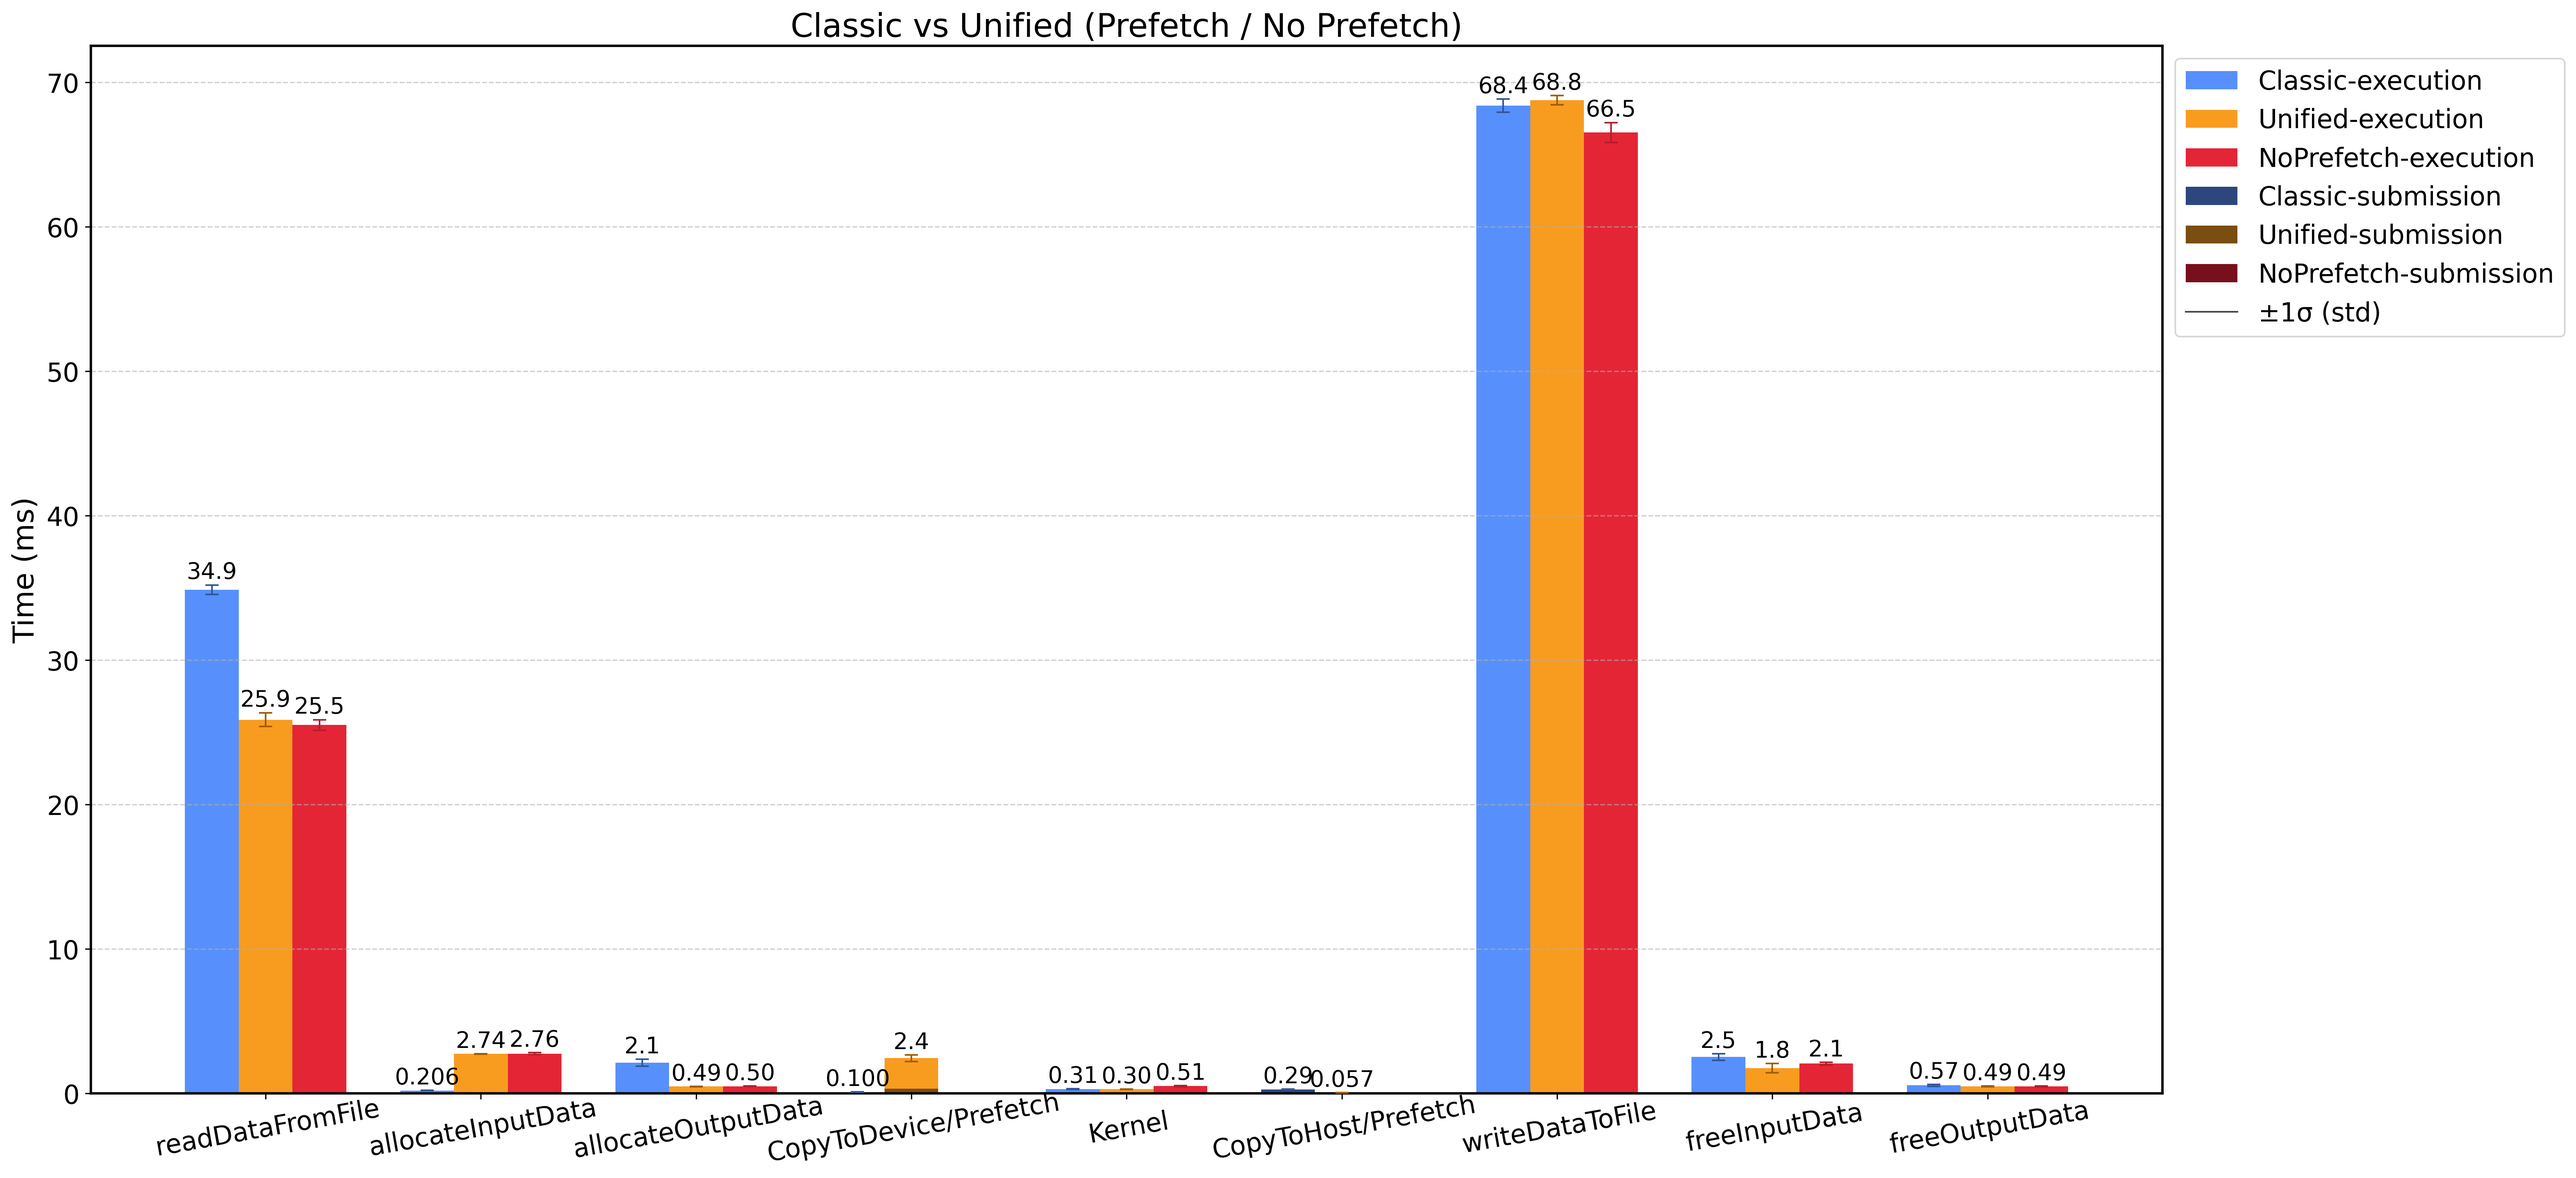
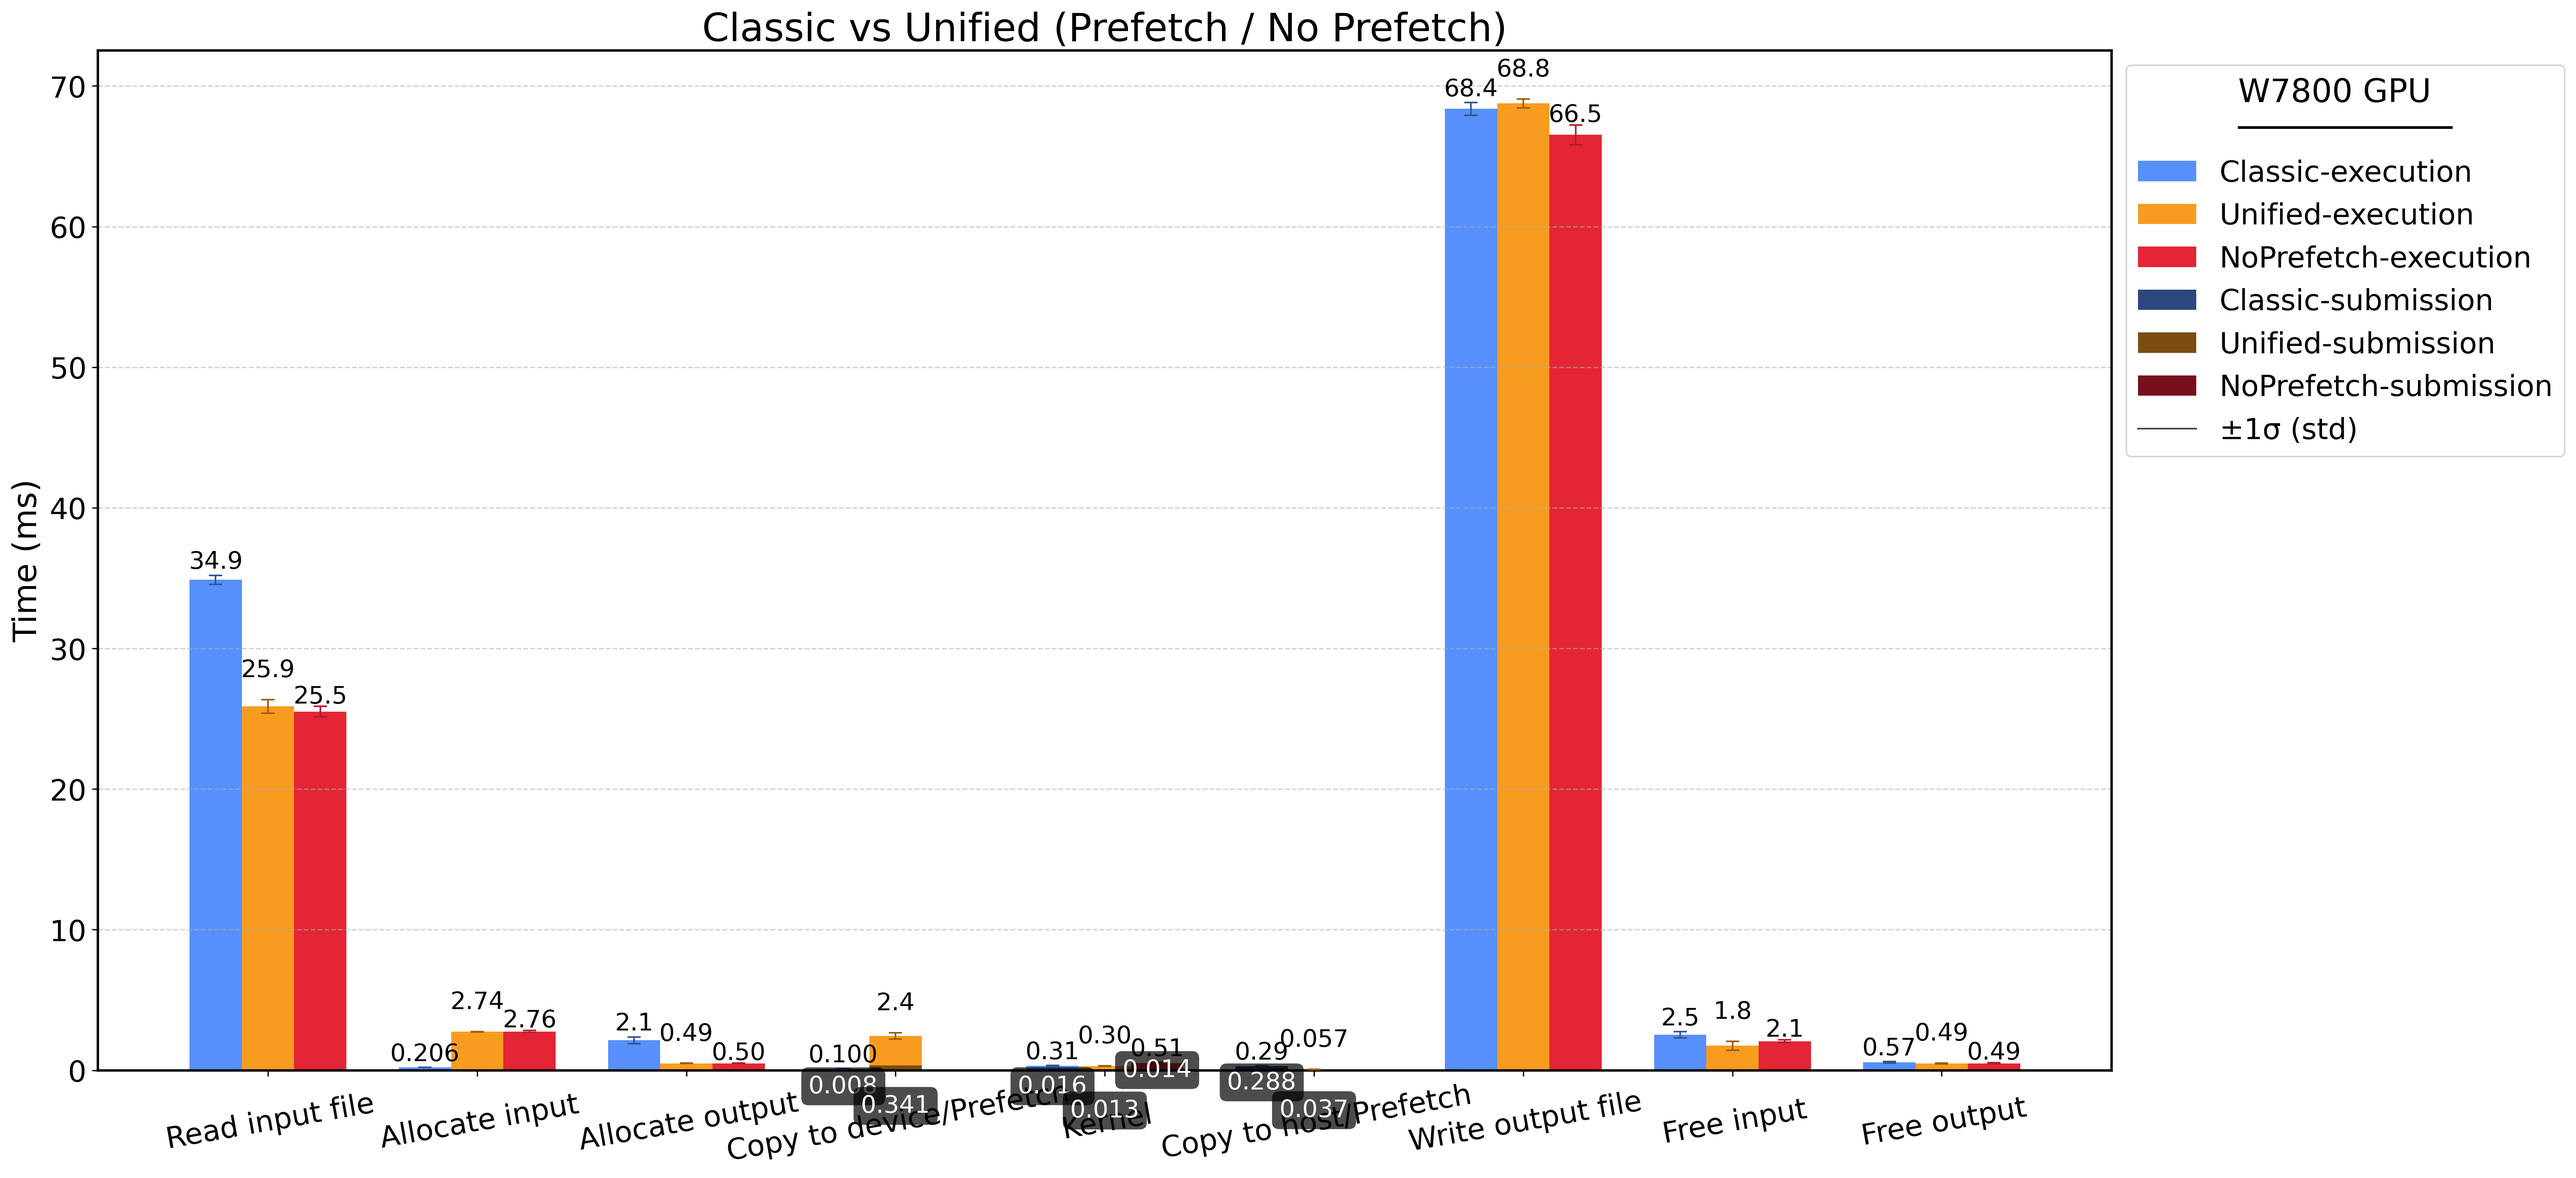
ACAT Plots

diff --git a/Results/compare_timing.py b/Results/compare_timing.py
@@ -138,16 +138,17 @@ merged_std = merged_std.merge(
 # Save for plotting
 merged_mean.to_csv(f"{results}/mean_timing_comparison.csv", index=False)
 
+gpu_name = results.replace("Results_", "")
 
 # === plotting (refactored to avoid repetition) ===
 
 plt.rcParams.update({
-    "font.size": 14,               # default font size
-    "axes.titlesize": 20,          # bigger title
-    "axes.labelsize": 18,          # x and y labels
-    "xtick.labelsize": 16,         # tick labels
-    "ytick.labelsize": 16,
-    "legend.fontsize": 16,
+    "font.size": 15,               # default font size
+    "axes.titlesize": 24,          # bigger title
+    "axes.labelsize": 20,          # x and y labels
+    "xtick.labelsize": 18,         # tick labels
+    "ytick.labelsize": 18,
+    "legend.fontsize": 18,
     "axes.linewidth": 1.5          # thicker border
 })
 
@@ -238,16 +239,23 @@ def get_std(op, col):
         return np.nan
 
 # X-axis order
-SIMPLE_OPS = ["readDataFromFile", "allocateInputData", "allocateOutputData",
-              "writeDataToFile", "freeInputData", "freeOutputData"]
-STACK_OPS  = [("CopyToDevice", "CopyToDevice/Prefetch"),
+SIMPLE_OPS = [
+    ("readDataFromFile", "Read input file"),
+    ("allocateInputData", "Allocate input"),
+    ("allocateOutputData", "Allocate output"),
+    ("writeDataToFile", "Write output file"),
+    ("freeInputData", "Free input"),
+    ("freeOutputData", "Free output")
+]
+
+STACK_OPS  = [("CopyToDevice", "Copy to device/Prefetch"),
               ("MakeClusters", "Kernel"),
-              ("CopyToHost",   "CopyToHost/Prefetch")]
+              ("CopyToHost",   "Copy to host/Prefetch")]
 
 groups_all = []
-for op in SIMPLE_OPS[:3]: groups_all.append(("simple", op, op))
+for key, pretty in SIMPLE_OPS[:3]: groups_all.append(("simple", key, pretty))
 for key, pretty in STACK_OPS: groups_all.append(("stack", key, pretty))
-for op in SIMPLE_OPS[3:]: groups_all.append(("simple", op, op))
+for key, pretty in SIMPLE_OPS[3:]: groups_all.append(("simple", key, pretty))
 
 # Filter groups: keep only ops with at least one valid value
 valid_groups = []
@@ -314,9 +322,9 @@ def draw_plot(ax):
 
             ax.annotate(fmt_mean_with_error(c_val, c_std), (xc, y_at_std_top(c_val, c_std)), xytext=(0, TOP_DY),
                         textcoords="offset points", ha="center", va="bottom", fontsize=FS_TOP)
-            ax.annotate(fmt_mean_with_error(u_val, u_std), (xu, y_at_std_top(u_val, u_std)), xytext=(0, TOP_DY),
+            ax.annotate(fmt_mean_with_error(u_val, u_std), (xu, y_at_std_top(u_val, u_std)), xytext=(0, TOP_DY + 20),
                         textcoords="offset points", ha="center", va="bottom", fontsize=FS_TOP)
-            ax.annotate(fmt_mean_with_error(n_val, n_std), (xn, y_at_std_top(n_val, n_std)), xytext=(0, TOP_DY),
+            ax.annotate(fmt_mean_with_error(n_val, n_std), (xn, y_at_std_top(n_val, n_std)), xytext=(0, TOP_DY - 2),
                         textcoords="offset points", ha="center", va="bottom", fontsize=FS_TOP)
 
             add_errbar(xc, c_val, c_std, c_err)
@@ -349,15 +357,18 @@ def draw_plot(ax):
 
             ax.annotate(fmt_mean_with_error(c_exe, c_exe_std), (xc, y_at_std_top(c_exe, c_exe_std)), xytext=(0, TOP_DY),
                         textcoords="offset points", ha="center", va="bottom", fontsize=FS_TOP)
-            ax.annotate(fmt_mean_with_error(u_exe, u_exe_std), (xu, y_at_std_top(u_exe, u_exe_std)), xytext=(0, TOP_DY),
+            ax.annotate(f"{c_sub:.3f}", (xc, c_sub), xytext=(0, -10), textcoords="offset points", ha="center", va="center", fontsize=FS_TOP, color="white", bbox=dict(boxstyle="round,pad=0.3", fc="black", ec="none", alpha=0.7))
+            ax.annotate(fmt_mean_with_error(u_exe, u_exe_std), (xu, y_at_std_top(u_exe, u_exe_std)), xytext=(0, TOP_DY + 10),
                         textcoords="offset points", ha="center", va="bottom", fontsize=FS_TOP)
+            ax.annotate(f"{u_sub:.3f}", (xu, u_sub), xytext=(0, -50), textcoords="offset points", ha="center", va="center", fontsize=FS_TOP, color="white", bbox=dict(boxstyle="round,pad=0.3", fc="black", ec="none", alpha=0.7))
             ax.annotate(fmt_mean_with_error(n_exe, n_exe_std), (xn, y_at_std_top(n_exe, n_exe_std)), xytext=(0, TOP_DY),
                         textcoords="offset points", ha="center", va="bottom", fontsize=FS_TOP)
+            ax.annotate(f"{n_sub:.3f}", (xn, n_sub), xytext=(0, 0), textcoords="offset points", ha="center", va="center", fontsize=FS_TOP, color="white", bbox=dict(boxstyle="round,pad=0.3", fc="black", ec="none", alpha=0.7))
 
     labels = [pretty for _,_,pretty in groups]
     ax.set_xticks(x)
     ax.set_xticklabels(labels, rotation=10, ha="center", rotation_mode="anchor")
-    ax.tick_params(axis="x", pad=10) 
+    ax.tick_params(axis="x", pad=20) 
     ax.set_ylabel("Time (ms)")
     ax.set_title("Classic vs Unified (Prefetch / No Prefetch)")
     ax.grid(axis="y", linestyle="--", alpha=0.6)
@@ -367,7 +378,7 @@ def draw_plot(ax):
     handles, lbls = ax.get_legend_handles_labels()
     if "±1σ (std)" not in lbls:
         handles.append(err_proxy); lbls.append("±1σ (std)")
-    ax.legend(handles, lbls, loc="upper left", bbox_to_anchor=(1, 1))
+    ax.legend(handles, lbls, loc="upper left", bbox_to_anchor=(1, 1), title=f"{gpu_name} GPU\n───────────", title_fontsize=20)
 
 def make_variant(scale="linear", ylim=None, suffix="linear"):
     fig, ax = plt.subplots(figsize=(22, 10), constrained_layout=True)
